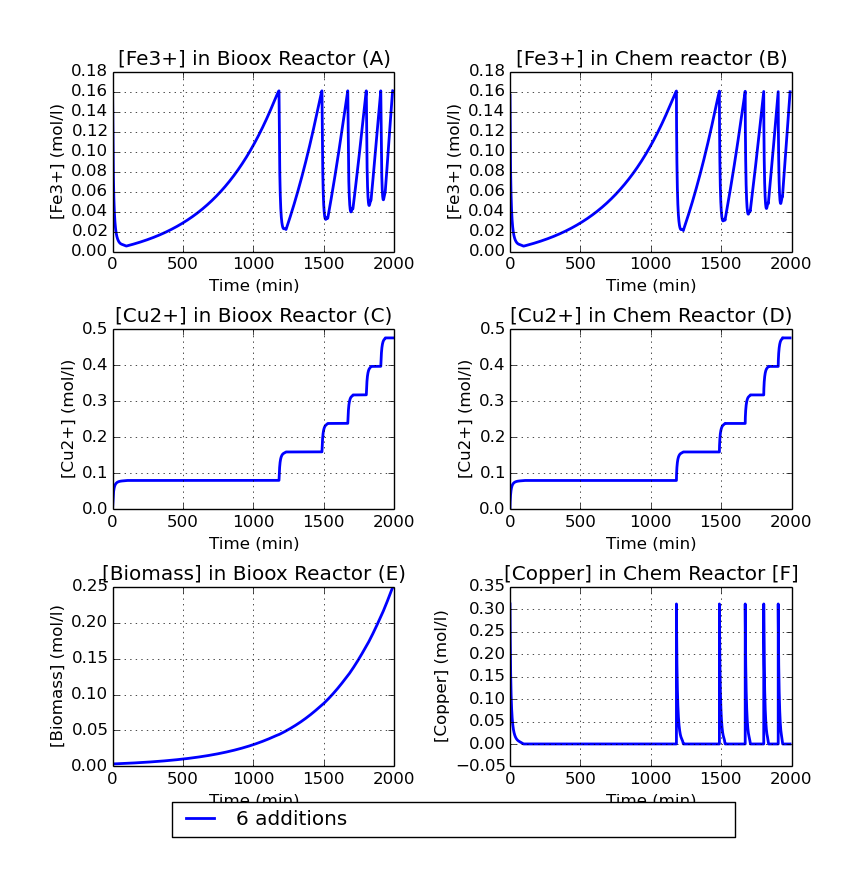
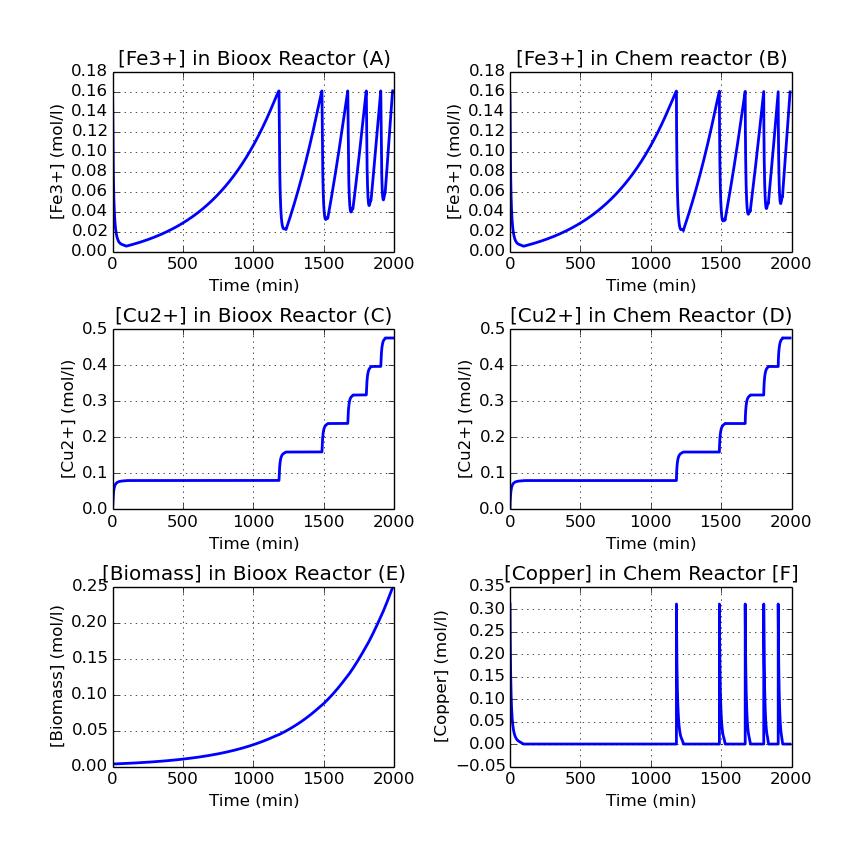
replotting

Changed region(s): [[0.0604, 0.0605, 0.9361, 0.9686]]

diff --git a/masters/calculations/management/commands/sensitivity_analysis.py b/masters/calculations/management/commands/sensitivity_analysis.py
@@ -339,7 +339,8 @@ class Command(BaseCommand):
             line.set_linewidth(2)
 
 
-        plt.legend(ncol=3, mode="expand", borderaxespad=0., bbox_to_anchor=(-1.2, -0.3, 1.*2, .102))
+        if not self.simulate == "additions":
+            plt.legend(ncol=3, mode="expand", borderaxespad=0., bbox_to_anchor=(-1.2, -0.3, 1.*2, .102))
         # plt.legend(loc='center left', bbox_to_anchor=(1, 1))
         # plt.subplots_adjust(bottom=0.5)
 

diff --git a/masters/calculations/reactions.py b/masters/calculations/reactions.py
@@ -47,8 +47,8 @@ class BioxidationRate(object):
         self.component_conc = self.component_conc + (1.0 * rate_biomass)
 
     def simplified_hansford(self):
-        q_spec_growth_rate = 23.55 / 3600
-        # q_spec_growth_rate = 1.0 / 3600
+        # q_spec_growth_rate = 23.55 / 3600
+        q_spec_growth_rate = 1.0 / 3600
 
         K = 0.0024 # Tunde
         if self.ferrous == 0:
